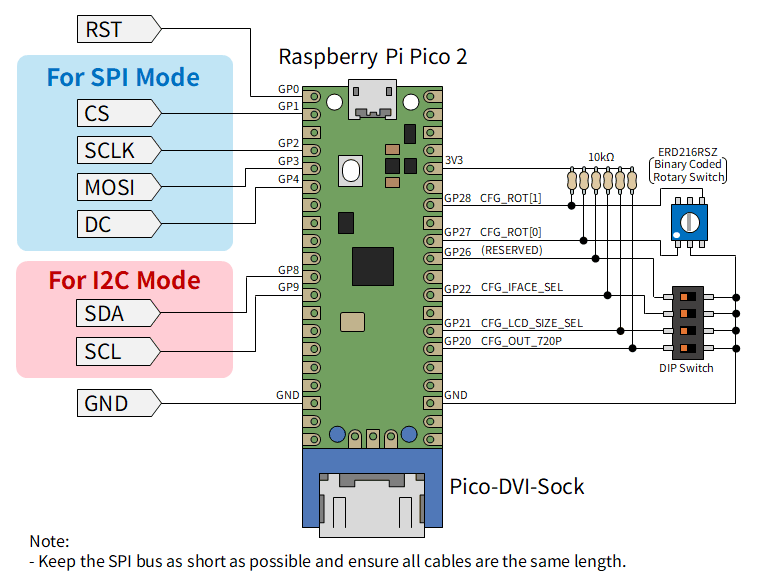
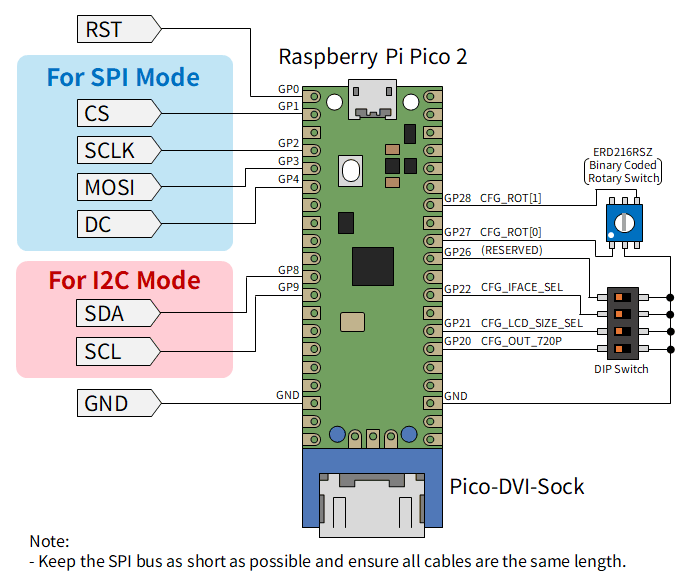
fix README

Changed region(s): [[0.0304, 0.0616, 0.9739, 0.9863], [0.0913, 0.6781, 0.2435, 0.7089], [0.0913, 0.0308, 0.2435, 0.0616]]

diff --git a/README.md b/README.md
@@ -1,54 +1,45 @@
 # LcdTap
 
-A library and example that receives LCD controller commands (via SPI or I2C)
+A library and its example design that receives LCD controller commands (via SPI or I2C)
 and outputs the framebuffer as a DVI-D signal.
 
 ![](image/cover.png)
 
 ![](image/use_cases.png)
 
+## Features
+
+- Receives LCD controller commands and reconstructs images into the framebuffer
+- Outputs framebuffer contents as DVI-D signal (using Pico-DVI)
+- Programmable screen sizes (up to 480x320 supported on Pico2)
+- Command Dump: Captures and displays LCD control commands
+- OSD Menu: Configure settings at runtime via on-screen display
+- Supported Controllers: ST7789, ILI9341, ILI9488, SSD1306, SSD1309, SSD1331, and some variants
+- Supported Interfaces: SPI (4-line, 3-line), I2C, Parallel
+- Supported Pixel Formats: Monochrome, RGB111, RGB332, RGB444, RGB565, RGB666
+
 ## Example Design
 
-### Universal
+### Download Pre-built Binary
+
+See [releases](https://github.com/shapoco/lcdtap/releases) for pre-built UF2 binaries.
+
+### LcdTap-Pico2 Universal
 
 Supports multiple LCD controllers and interfaces, selectable at runtime via an OSD menu.
 
 See [pico2_universal](example/pico2_universal/README.md) for build
 instructions, pin assignment, and configuration details.
 
-### for ST7789, ILI9341, ILI9488, etc.
+### LcdTap-Pico2 for ST7789, ILI9341, ILI9488, etc.
 
 See [pico2_st7789](example/pico2_st7789/README.md) for build
 instructions, pin assignment, and configuration details.
 
-### for SSD1306, SSD1309, etc.
+### LcdTap-Pico2 for SSD1306, SSD1309, etc.
 
 See [pico2_ssd1306](example/pico2_ssd1306/README.md) for build
 instructions, pin assignment, and configuration details.
-
-## Supported Controllers
-
-| Controller | Display Type | Default Interface Format | Drawing Commands |
-|:-----------|:------------|:------------------------|:----------------|
-| ST7789     | Color TFT   | RGB565_BE (COLMOD 0x3A selectable) | — |
-| SSD1306    | Mono OLED   | GRAY1_VPACK8_H2L        | — |
-| SSD1331    | Color OLED  | RGB332 (SETREMAP selectable) | DRAWLINE, DRAWRECT, COPY, DIMWINDOW, CLEARWINDOW |
-
-### Supported Interface Pixel Formats
-
-| Enum Value | Bits/pixel | Description |
-|:-----------|:----------:|:------------|
-| `GRAY1_VPACK8_H2L` | 1 | Monochrome, 8 vertical pixels/byte |
-| `RGB111_HPACK2_H2L_RA8` | 3 | RGB111, 2 pixels/byte, right-aligned |
-| `RGB332` | 8 | RGB332 (3-3-2 bits) |
-| `RGB444_HPACK2_H2L_BE` | 12 | RGB444, 2 pixels per 3 bytes |
-| `RGB565_BE` | 16 | RGB565, big-endian |
-| `RGB666_UNPACK_LA8_BE` | 18 | RGB666, left-aligned in 8-bit bytes |
-| `RGB666_UNPACK_RA8_BE` | 18 | RGB666, right-aligned in 8-bit bytes |
-
-## Download Pre-built Binary
-
-See [releases](https://github.com/shapoco/lcdtap/releases) for pre-built UF2 binaries.
 
 ## Video
 

diff --git a/example/pico2_ssd1306/README.md b/example/pico2_ssd1306/README.md
@@ -1,4 +1,4 @@
-# Example Design for SSD1306, SSD1309, etc.
+# LcdTap-Pico2 for SSD1306
 
 ## Schematics
 

diff --git a/example/pico2_st7789/README.md b/example/pico2_st7789/README.md
@@ -1,4 +1,4 @@
-# Example Design for ST7789, ILI9341, ILI9488, etc.
+# LcdTap-Pico2 for ST7789
 
 ## Schematics
 

diff --git a/example/pico2_universal/README.md b/example/pico2_universal/README.md
@@ -1,4 +1,4 @@
-# pico2_universal
+# LcdTap-Pico2 Universal
 
 A universal LCD-to-DVI converter example for Raspberry Pi Pico 2. With an OSD (On-Screen Display) menu for runtime configuration.
 